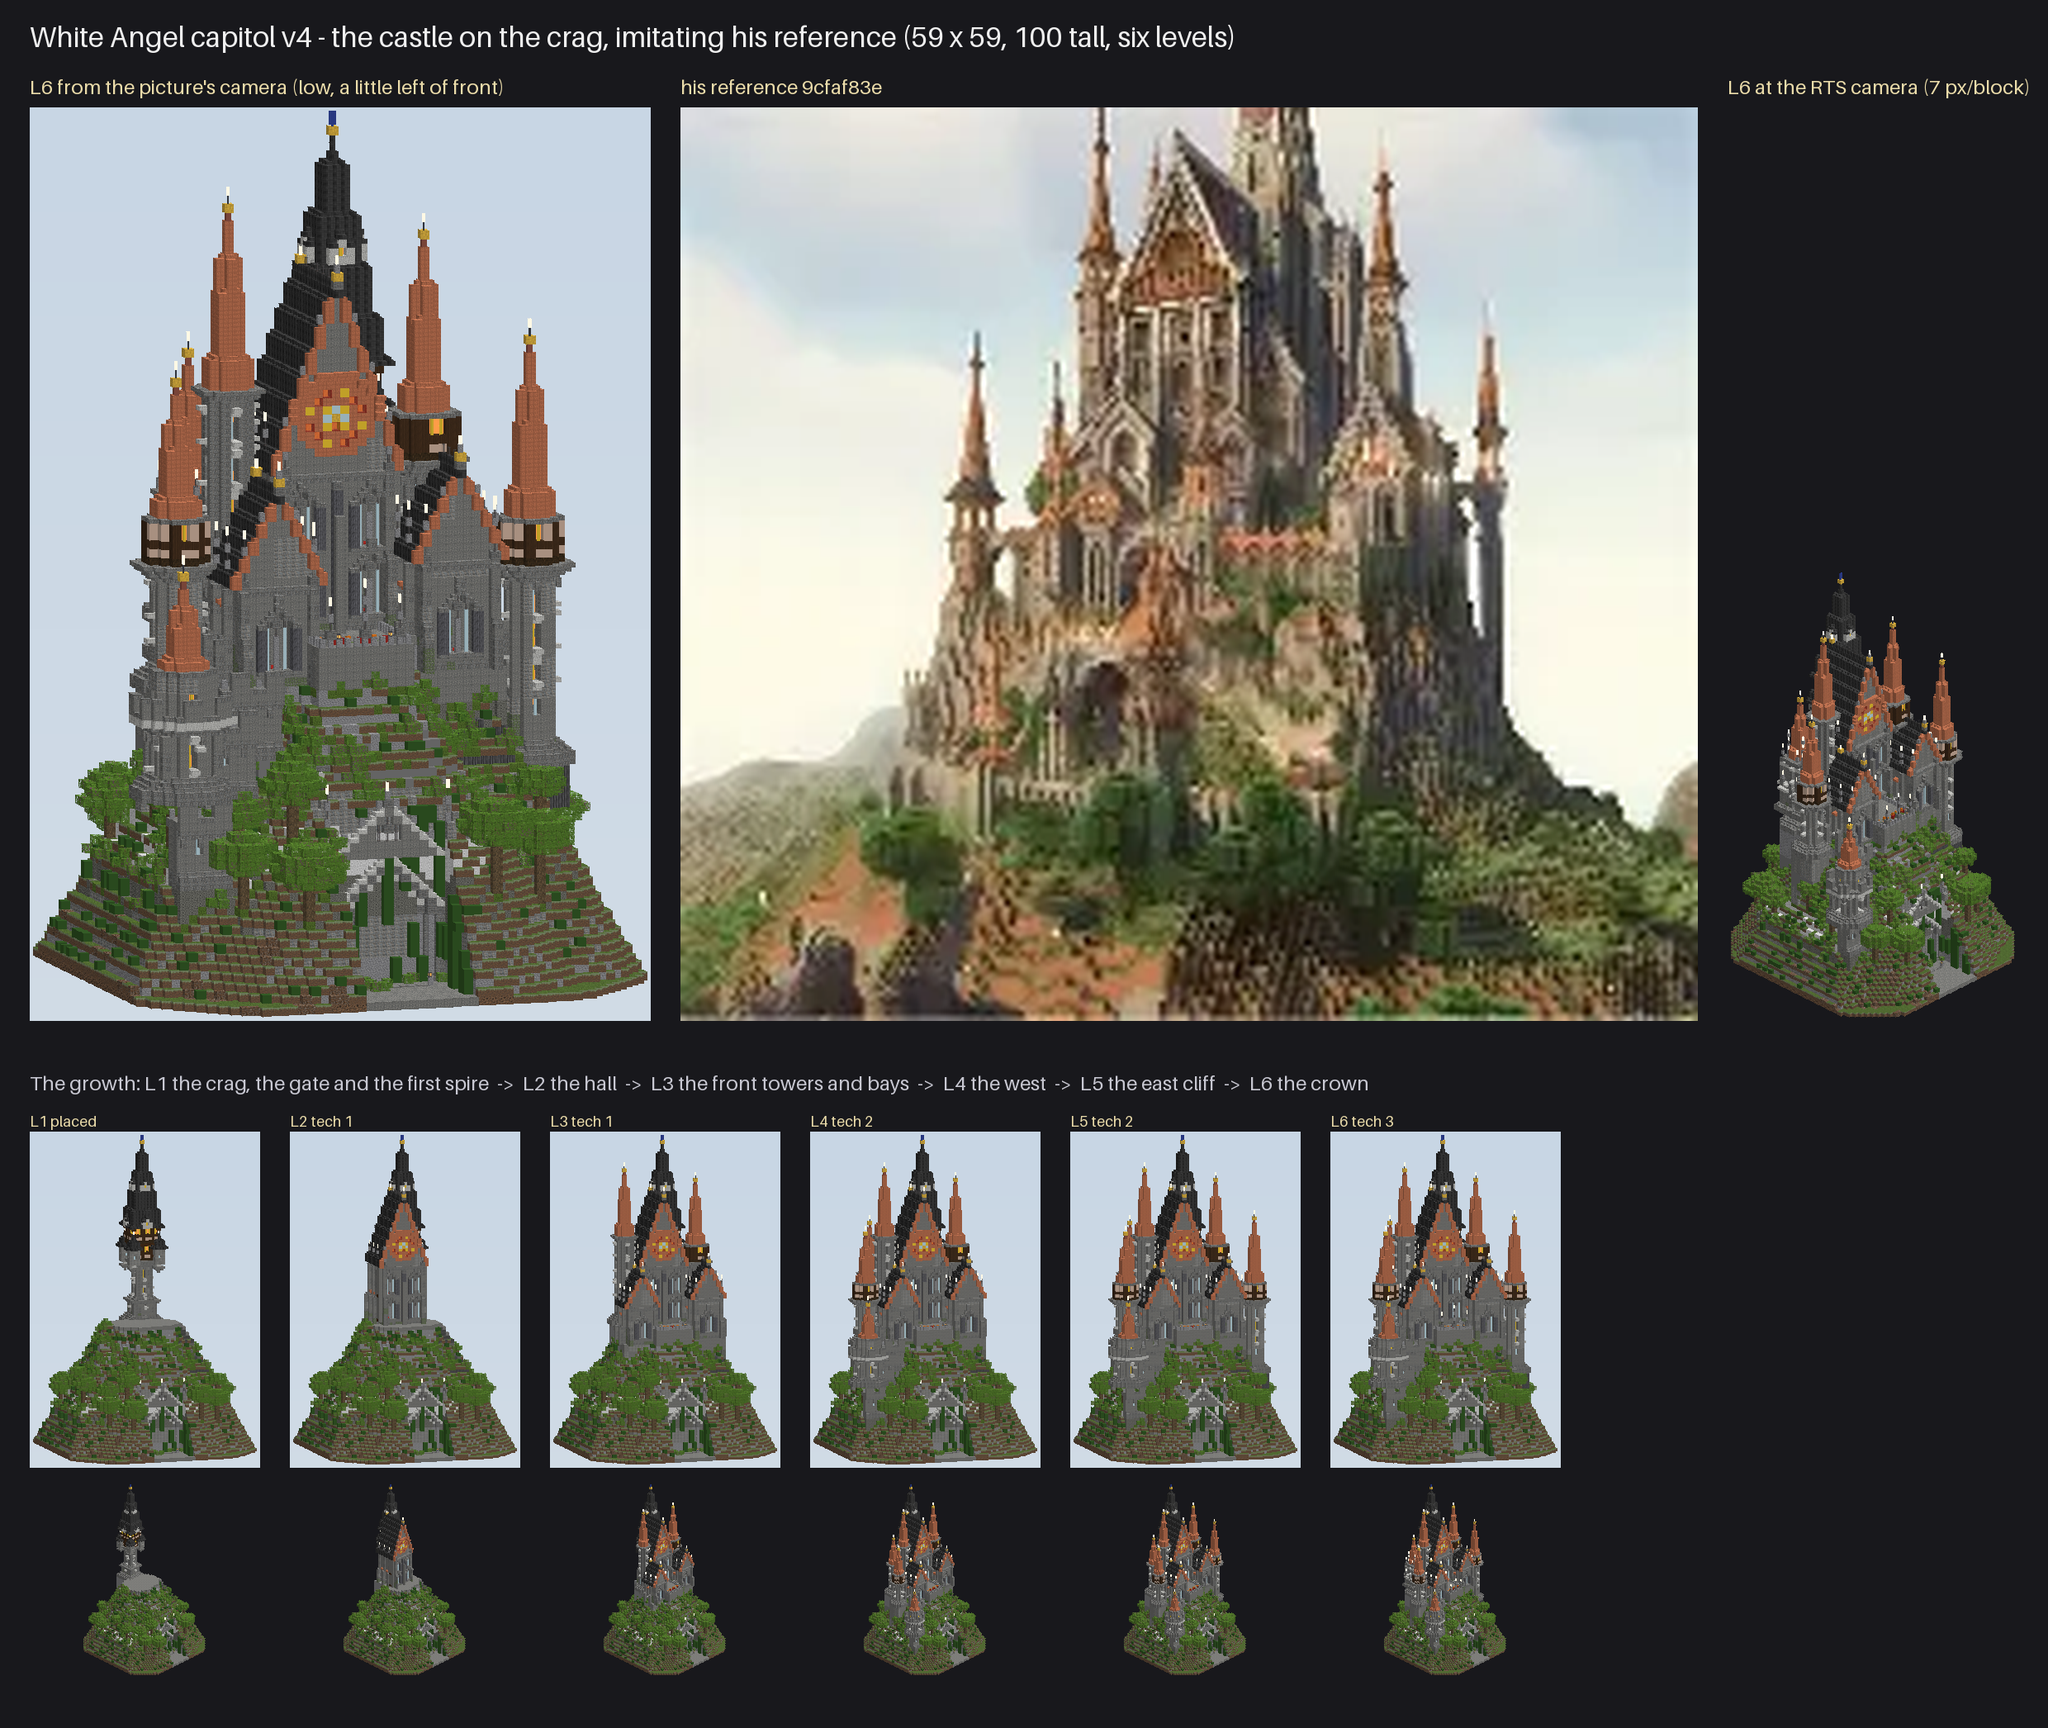
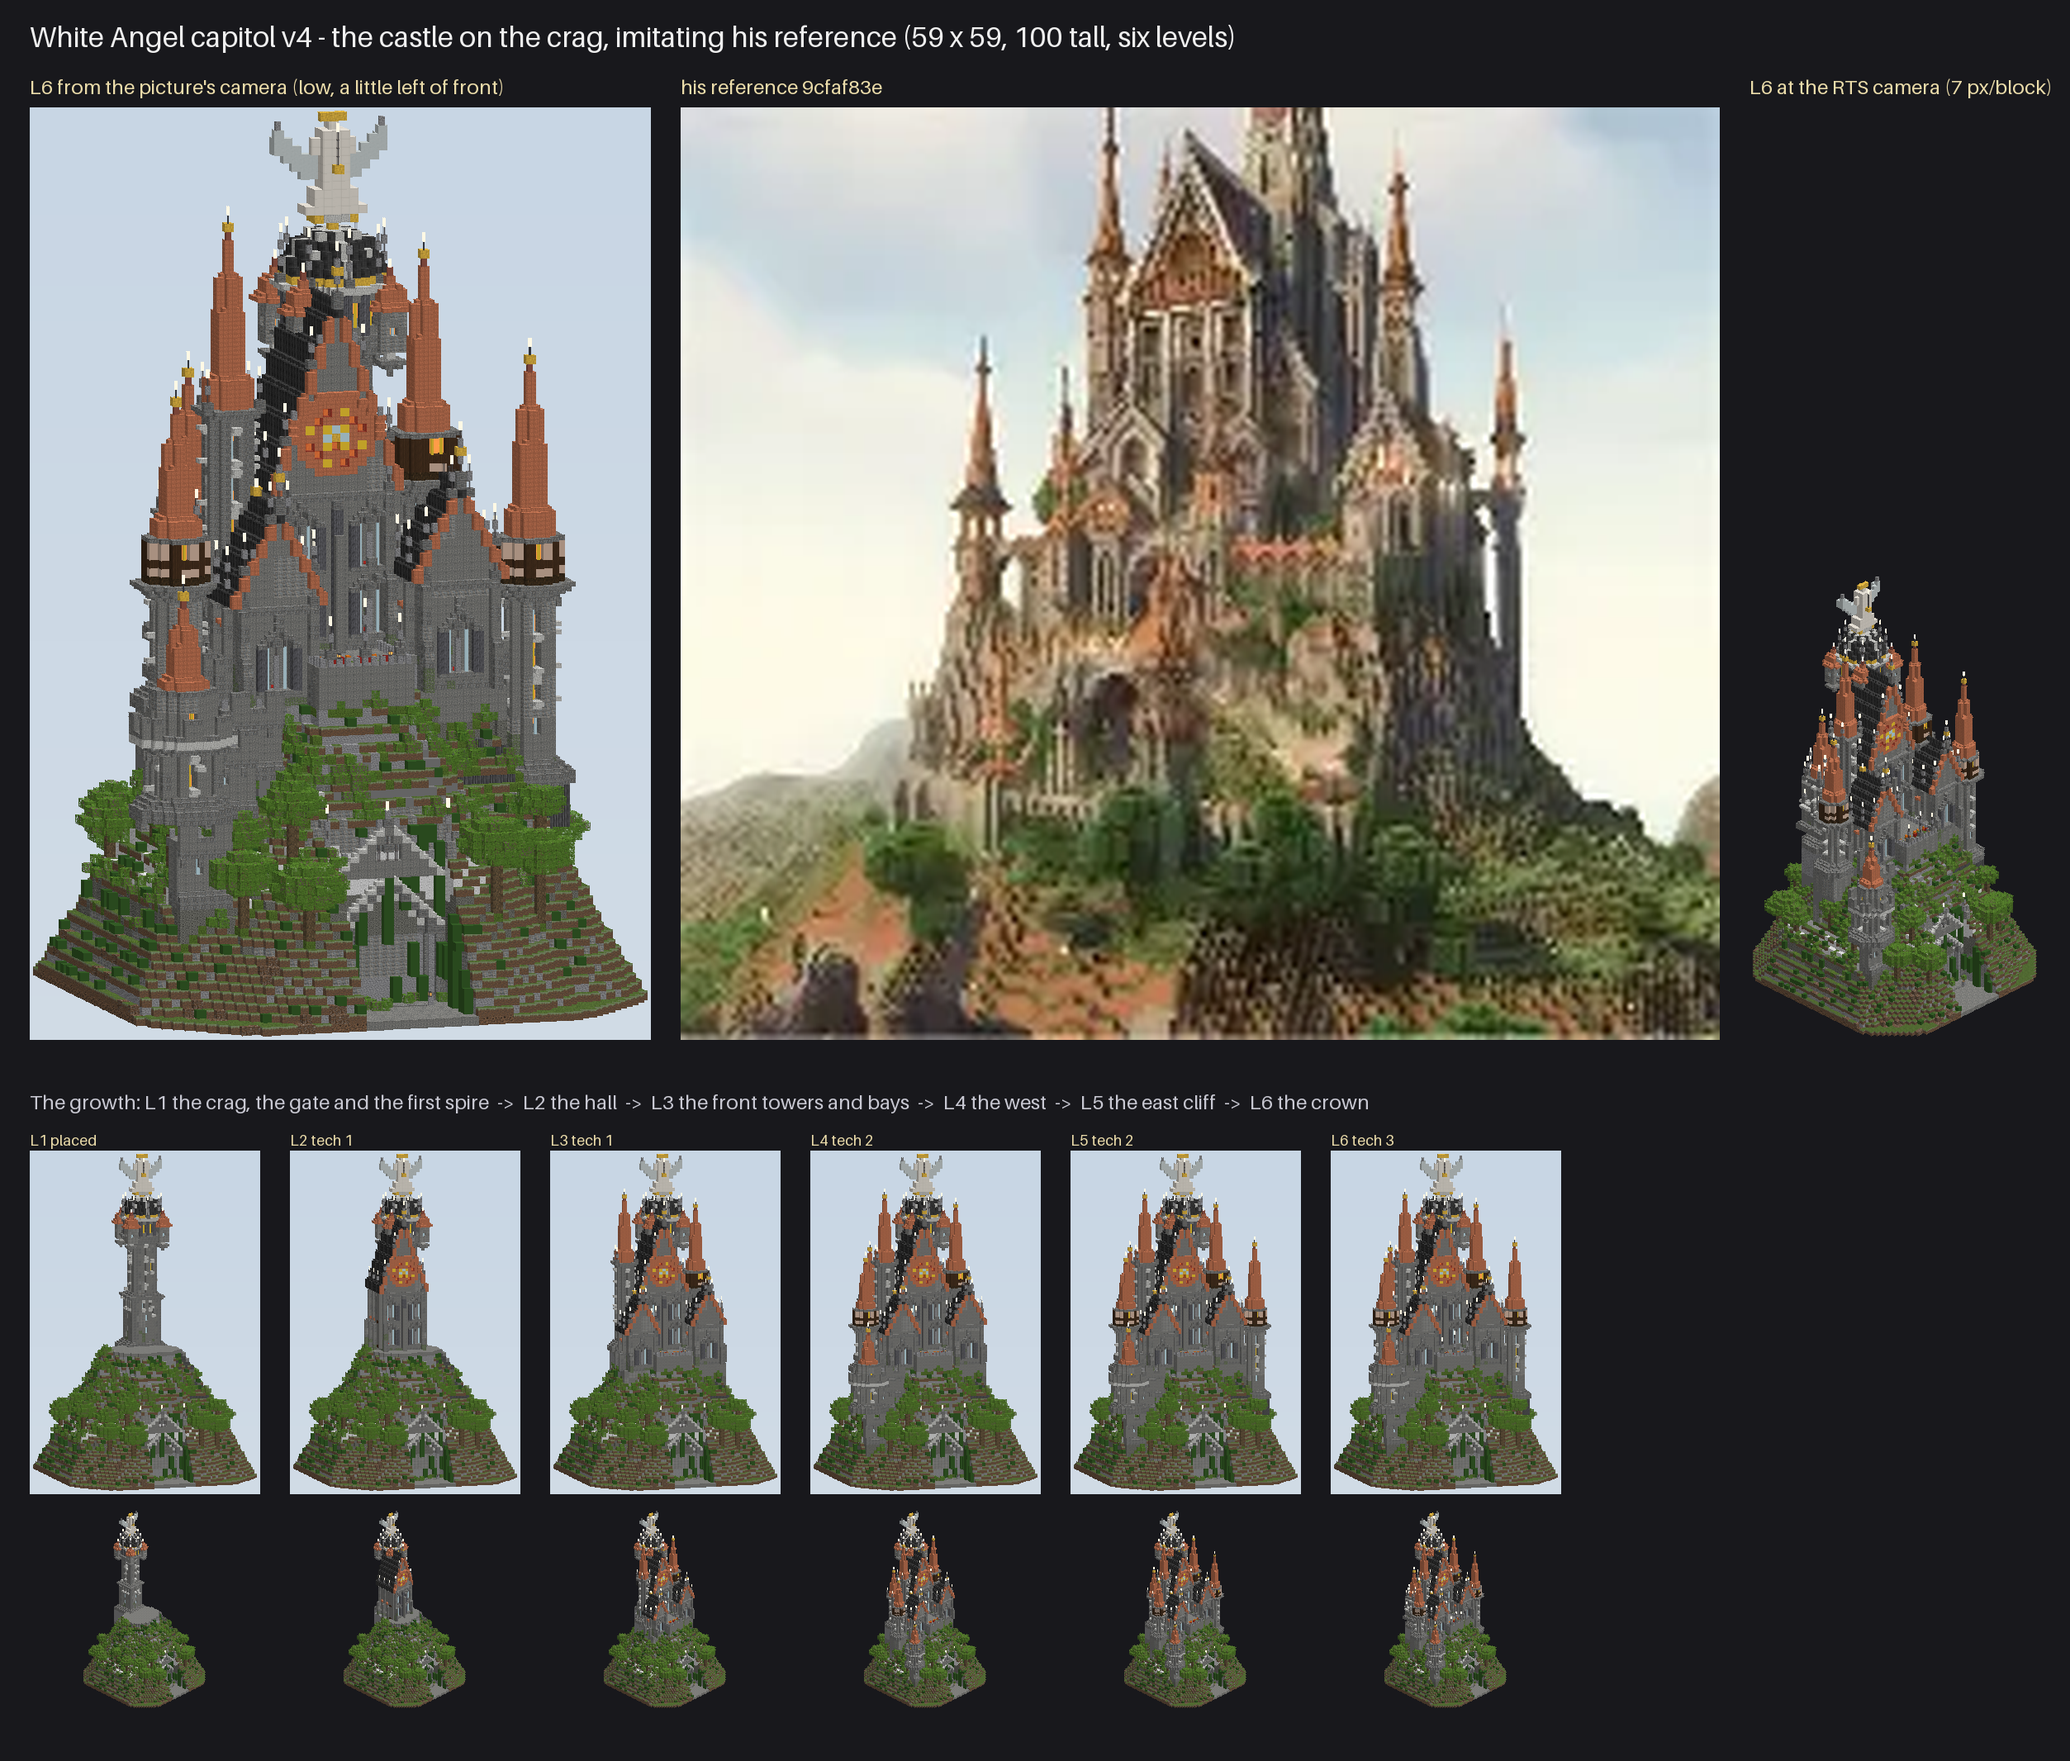
Capitol v4: winged angel on a ribbed dome crowns it; a forest of pinnacles
lovish's ref 0016fdb9: gothic_parts.angel (13 x 13 winged statue, gold halo, sword)
and gothic_parts.ribbed_dome (drum ringed with pinnacles, dark slate dome, pale ribs)
crown the back tower, the capitol's highest point (H 104). Openwork pinnacles on
every tower collar corner, gable apex and rake. Pocket audit and subset rule clean.

Claude-Session: https://claude.ai/code/session_01NEadWe2zcfMMjewZ86PqRE

diff --git a/tools/capitol_white_angel_v4.py b/tools/capitol_white_angel_v4.py
@@ -33,19 +33,23 @@ THE PICTURE, STUDIED (it is seen from low and a little left of front, looking up
     behind; green ivy and moss over the rock; warm light in the windows.
 
 THE BUILD (coordinates from the reservation's centre; +z = south = toward the camera; y = 0 is the ground course)
-  - hill: a heightfield (radial from the peak at (0, -4): plateau at y 34, steep rock to y ~10, gentle slopes with
+  - hill: a heightfield (radial from the peak at (0, -4): summit at y 40, steep rock 1.6 a cell, a spur (lobe) under every building, slopes with
     trees to the edge; the east side a sheer dark cliff), hollow inside (a 2-3 thick shell), strata in big zones,
     grass and moss on the ledges, ivy on the faces the camera sees, roots under a few lips, coarse earth among trees.
-  - hall: the central gabled block, 15 wide x 17 deep x 36 to the eaves, a steep slate roof (rise 3 a step), two
+  - hall: the central gabled block, 13 wide x 13 deep x 18 to the eaves, a steep slate roof (rise 3 a step), two
     tiers of tracery windows (part a), a copper-traced rose in the gable, buttresses with pinnacles.
-  - towers 1-5 and the back spire: tools/gothic_towers.stone_tower in the shapes and heights the picture shows.
+  - towers 1-5: tools/gothic_towers.stone_tower in the shapes and heights the picture shows, slim tapering copper
+    needles, an openwork pinnacle on every collar corner, gable apex and rake (his second ref 0016fdb9: a forest of
+    pinnacles); the CROWN where the picture has its tallest spire: a square tower, a dark ribbed dome on a drum ringed
+    with pinnacles, and on it the WINGED ANGEL statue (13 x 13, wings spread, gold halo, sword) - the faction's emblem
+    on its highest point (gothic_parts.angel, gothic_parts.ribbed_dome).
   - front bays: smaller gabled blocks with a tracery window and a copper-edged gable.
   - the terrace with flowers; the left curtain walls stepping down with a wall turret; the dark east cliff wall.
-  - the GATE: the spawn apron at the hill's foot, south, open to the sky and 9 wide (wide bodies), a sealed portal
+  - the GATE: the spawn apron at the hill's foot, south, open to the sky and 13 wide (wide bodies), a sealed portal
     into the hill at its end, lanterns. The picture's mid-hill arch is a sealed (barred) recess above it.
 
-THE GROWTH (one origin, 59 x 100 x 59 at every level; a level only adds or replaces blocks):
-  - L1  the crag itself (all of it), the gate and apron, and the back tower with its slate needle - the first spire
+THE GROWTH (one origin, 59 x 104 x 59 at every level; a level only adds or replaces blocks):
+  - L1  the crag itself (all of it), the gate and apron, and the angel tower - its dome and the angel from the start
   - L2  the hall: the gabled block with its tracery front, rose and steep slate roof
   - L3  towers 1 and 2 beside the gable, the two front bays, the terrace and its flowers, the rim parapet
   - L4  the west: tower 4, tower 3 on its curtain wall, the walls stepping down the slope with a wall turret
@@ -70,7 +74,7 @@ import gothic_towers as GT                                                  # no
 from gothic_parts import Part, palette, hsh, toward, VEC, OPP, LEAF          # noqa: E402
 
 R = 29                      # 59 x 59
-H = 100
+H = 104
 LEVELS = 6
 PL = 40                     # the summit (castle floor)
 PEAK = (0, -4)
@@ -351,13 +355,15 @@ def gable_block(w, d, h, per=3, rose=0, tiers=2, roof="needle", seed=0):
                                                                                 "accent_st")
                 p.set(xr, y + c, z1 + 1, "accent") if c < per - 1 else p.stair(xr, y + c, z1 + 1, "west", "bottom",
                                                                                 "accent_st")
-            if k % 2 == 1:
+            if k % 3 == 1:                                    # pinnacles riding the rake (his forest of them)
+                GP._pinnacle(p, xl, y + per, z1 + 1)
+                GP._pinnacle(p, xr, y + per, z1 + 1)
+            elif k % 3 == 2:
                 p.set(xl, y + per, z1 + 1, "rail")
                 p.set(xr, y + per, z1 + 1, "rail")
-    p.set(0, ytop, z1 + 1, "carve")
-    p.set(0, ytop + 1, z1 + 1, "gold")
-    p.set(0, ytop + 2, z1 + 1, "rail")
-    p.set(0, ytop + 3, z1 + 1, "spike", facing="up")
+    p.set(0, ytop, z1 + 1, "carve")                           # the apex: a tall pinnacle with a gold knop
+    GP._pinnacle(p, 0, ytop + 1, z1 + 1, tall=True)
+    p.set(0, ytop + 4, z1 + 1, "gold")
     for z in range(z0, z1 + 1, 2):                            # ridge cresting
         p.set(0, ytop + 1, z, "bars")
     p.set(0, ytop + 1, z0, "gold")
@@ -434,10 +440,22 @@ def l1(p):
     hm = build_hill(p)
     trees(p, hm)
     gate(p)
-    # the back tower and its slate needle (the tallest, back, a little right of centre): the first spire
-    place_tower(p, 4, -15, PL - 2, 98, shape="square", r=3, crown="timber", galleries=2, roof="needle", per=6,
-                finial="banner", bartizans=True, seed=3)
+    angel_tower(p)
     return hm
+
+
+def angel_tower(p, x=4, z=-15, base=PL - 2, h=36):
+    """The crown of the capitol and its highest point (back, a little right of centre, as in the picture): a square
+    stone tower with bartizans, a dark ribbed dome on a drum ringed with pinnacles, and on it the WINGED ANGEL - the
+    White Angel's emblem, readable from the RTS camera (lovish, 21:12)."""
+    t = GT.stone_tower("square", 4, h=h, setoff=0.5, crown="plain", roof="none", lucarnes=False, bartizans=True,
+                       door_at_foot=False, rock=False, seed=3, pal=PAL)
+    x0, x1, _, _, z0, z1 = t.bbox()
+    found(p, x + x0 + 1, x + x1 - 1, z + z0 + 1, z + z1 - 1, base)
+    p.place(t, x, base, z)
+    dome, dtop = GP.ribbed_dome(5, pal=PAL)
+    p.place(dome, x, base + h + 1, z)
+    p.place(GP.angel(pal=PAL), x, base + h + 1 + dtop + 1, z)
 
 
 HALL = dict(w=13, d=13, h=18, per=3, rose=4, tiers=2, roof="needle", seed=1)

diff --git a/tools/gothic_parts.py b/tools/gothic_parts.py
@@ -48,6 +48,7 @@ PALETTE = {
     # glass, tracery, light
     "glass": "glass_pane", "glass_rose_a": "blue_stained_glass", "glass_rose_b": "red_stained_glass",
     "glass_rose_c": "yellow_stained_glass", "slit": "black_stained_glass_pane", "bars": "iron_bars",
+    "angel_robe": "smooth_quartz", "angel_skin": "quartz_block", "angel_wing": "white_concrete",
     "light": "shroomlight", "lantern": "lantern", "candle": "white_candle", "floor": "dark_oak_planks",
     "carpet": "red_carpet", "shelf": "bookshelf", "spike": "end_rod", "gold": "gold_block", "chain": "chain",
     "banner": "blue_banner", "banner_top": "blue_banner", "glass_lit": "glass_pane",
@@ -1099,6 +1100,106 @@ def catalogue():
     """Every part for the sheet, the towers first (they are what lovish judges first)."""
     from gothic_towers import TOWERS
     return TOWERS + CATALOGUE
+
+
+# ============================================================================================ the angel and the dome
+# The White Angel's emblem: a winged figure in pale stone, wings spread, a gold halo - the crown of every capitol.
+# Front view (x across, rows from the top); Q robe and body, H head, G gold, W wing, F wing tip feathers, P plinth.
+ANGEL_ROWS = [
+    "     GGG     ",
+    "      H      ",
+    "F    QQQ    F",
+    "WF  QQQQQ  FW",
+    "WWW QQQQQ WWW",
+    " WWWWQQQWWWW ",
+    "  WWWQQQWWW  ",
+    "   WWQQQWW   ",
+    "     QQQ     ",
+    "    QQQQQ    ",
+    "    QQQQQ    ",
+    "   QQQQQQQ   ",
+    "    PPPPP    ",
+]
+
+
+def angel(pal=None):
+    """The winged angel statue (13 wide, 13 tall, facing south): a robed body three deep, a head, a gold halo, wings
+    spread wide in a plane behind the shoulders (one deep, feathered tips up and swept back), a sword held point-up
+    before the body, a gold-banded plinth. Readable from the RTS camera: a pale winged figure on the skyline."""
+    p = Part(pal)
+    n = len(ANGEL_ROWS)
+    for i, row in enumerate(ANGEL_ROWS):
+        y = n - 1 - i
+        for j, ch in enumerate(row):
+            x = j - 6
+            if ch == "Q":
+                for z in (-1, 0, 1):
+                    if abs(x) < 2 or z == 0 or y < 4:
+                        p.set(x, y, z, "angel_robe")
+            elif ch == "H":
+                p.set(x, y, 0, "angel_skin")
+                p.set(x, y, -1, "angel_robe")
+            elif ch == "G":
+                p.set(x, y, 0, "gold")
+            elif ch in "WF":
+                p.set(x, y, -1, "angel_wing")
+                if ch == "F" and i == 2:
+                    p.set(x, y + 1, -1, "rail")
+            elif ch == "P":
+                for z in (-1, 0, 1):
+                    p.set(x, y, z, "gold" if abs(x) == 2 else "trim")
+    for s in (-1, 1):                                       # the wing ends swept back
+        for y in (8, 9):
+            p.set(s * 6, y, -2, "angel_wing")
+    p.set(0, 6, 2, "gold")                                  # the sword's hilt, its blade point-up
+    for y in range(7, 11):
+        p.set(0, y, 2, "bars")
+    p.set(0, 11, 2, "spike", facing="up")
+    return p
+
+
+def ribbed_dome(r=5, pal=None, drum_h=6, ribs=8):
+    """A dark ribbed dome on a drum: the drum round, radius r, alternating columns and lit windows, a cornice, eight
+    slender pinnacles round its rim; the dome a hemisphere of dark slate with pale ribs, a gold band at its foot and a
+    plinth at its crown. Returns (part, y of the plinth top)."""
+    p = Part(pal)
+    for (x, z) in disc(r):
+        p.set(x, 0, z, "band")
+    for (x, z) in ring(r + 1):
+        p.stair(x, 0, z, toward(x, z), "top", "band_st")
+    rim = sorted(ring(r), key=lambda c: math.atan2(c[1], c[0]))
+    for y in range(1, drum_h):
+        for i, (x, z) in enumerate(rim):
+            if i % 2 == 0:
+                p.set(x, y, z, "pillar", axis="y")
+            else:
+                p.set(x, y, z, "win_lit" if 1 < y < drum_h - 1 else "wall")
+        for (x, z) in disc(r - 1):
+            if y in (1, drum_h - 1):
+                p.set(x, y, z, "wall")
+            elif y == 3 and (x + z) % 3 == 0:
+                p.set(x, y, z, "light")
+    for (x, z) in ring(r + 1):
+        p.stair(x, drum_h, z, toward(x, z), "top", "trim_st")
+    for (x, z) in disc(r):
+        p.set(x, drum_h, z, "trim")
+    for k in range(8):
+        a = k * math.pi / 4
+        _pinnacle(p, int(round(math.cos(a) * (r + 1))), drum_h + 1, int(round(math.sin(a) * (r + 1))), tall=True)
+    y0 = drum_h + 1
+    for (x, z) in disc(r):
+        p.set(x, y0, z, "gold" if (x, z) in ring(r) else "needle")
+    for x in range(-r, r + 1):
+        for z in range(-r, r + 1):
+            for y in range(0, r + 1):
+                d = math.sqrt(x * x + z * z + (y * 1.15) ** 2)
+                if r - 0.75 < d < r + 0.45:
+                    a = math.atan2(z, x)
+                    rib = min(abs(math.remainder(a - k * 2 * math.pi / ribs, 2 * math.pi)) for k in range(ribs))
+                    p.set(x, y0 + 1 + y, z, "trim" if rib * max(1.0, math.hypot(x, z)) < 0.55 else "needle")
+    top = max(y for (x, y, z) in p.b if (x, z) == (0, 0))
+    p.set(0, top + 1, 0, "gold")
+    return p, top + 1
 
 
 CATALOGUE = [

diff --git a/tools/gothic_towers.py b/tools/gothic_towers.py
@@ -524,8 +524,13 @@ def stone_tower(shape="round", r=4, h=34, setoff=0.42, crown="crenel", roof="con
     if door_at_foot:
         door(p, r, m)
     if crown == "none":                                    # a slim needle straight off the wall head, a collar
-        for (x, z) in GT_ring(shape, r_up):
+        collar = GT_ring(shape, r_up)
+        for (x, z) in collar:
             p.stair(x, h, z, toward(x, z), "top", "band_st")
+        from gothic_parts import _pinnacle                 # an openwork pinnacle on each diagonal of the collar
+        for (sx, sz) in DIAG:
+            c = max(collar, key=lambda q: q[0] * sx + q[1] * sz)
+            _pinnacle(p, c[0], h + 1, c[1])
         R = r_up + 1
     else:
         R = machicolations(p, shape, r_up, h)
@@ -559,6 +564,8 @@ def stone_tower(shape="round", r=4, h=34, setoff=0.42, crown="crenel", roof="con
         for (sx, sz) in DIAG:
             k = R if shape == "square" else int(round((R) / math.sqrt(2)))
             bartizan(p, sx * k, sz * k, h - 1, h=6 + (crown == "crenel"), role=role_roof)
+    if roof == "none":                                     # the roof is another part's (a dome, an angel)
+        return p
     if roof_r == "taper":                                  # a slim tapering needle off a collar
         for (x, z) in plan(shape, rb) - TAPER[0]():
             p.slab(x, yb, z, "bottom", "band_slab")
